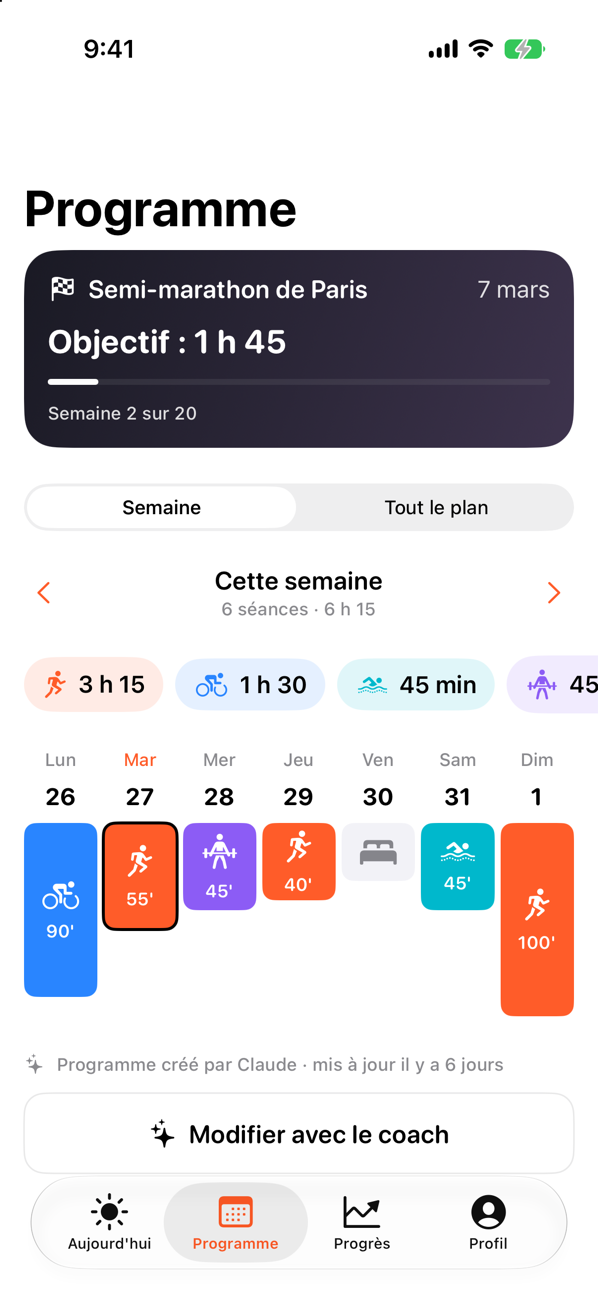
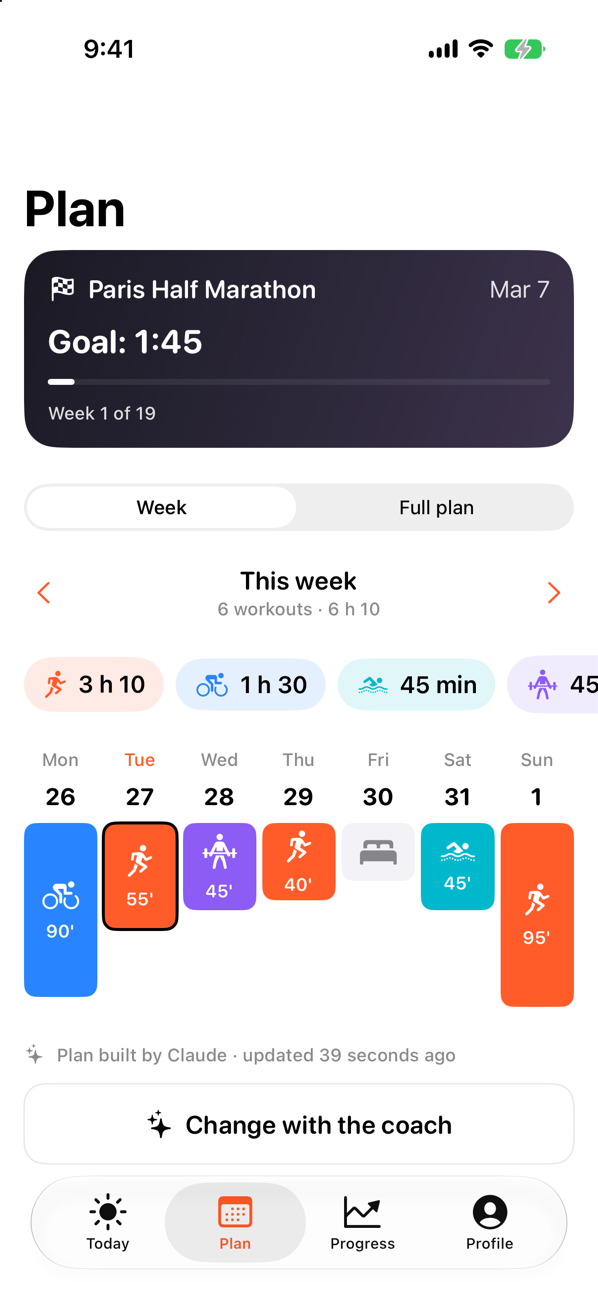
Use English screenshots in the README
Also fix goal times written as h:mm ("1:45" was read as 1 min 45 s) and translate the goal label on the Progress screen.

diff --git a/ios/Coach/Models/Insights.swift b/ios/Coach/Models/Insights.swift
@@ -133,7 +133,7 @@ enum Insights {
         return estimates.min()
     }
 
-    /// "1 h 45" / "1:45:00" / "45:00" → seconds.
+    /// "1 h 45" / "1h45" / "1:45:00" / "1:45" / "45:00" → seconds.
     static func parseTime(_ text: String?) -> TimeInterval? {
         guard let text = text?.lowercased().replacingOccurrences(of: " ", with: "") else { return nil }
         if let m = text.firstMatch(of: #/^(\d+)h(\d{1,2})?$/#) {
@@ -141,7 +141,8 @@ enum Insights {
         }
         let parts = text.split(separator: ":").compactMap { Int($0) }
         if parts.count == 3 { return Double(parts[0] * 3600 + parts[1] * 60 + parts[2]) }
-        if parts.count == 2 { return Double(parts[0] * 60 + parts[1]) }
+        // "1:45" is hours:minutes (a race goal), "45:30" is minutes:seconds.
+        if parts.count == 2 { return parts[0] < 10 ? Double(parts[0] * 3600 + parts[1] * 60) : Double(parts[0] * 60 + parts[1]) }
         return nil
     }
 

diff --git a/ios/Coach/Features/Progress/ProgressScreen.swift b/ios/Coach/Features/Progress/ProgressScreen.swift
@@ -61,7 +61,7 @@ struct ProgressScreen: View {
                 if let projected {
                     HStack(alignment: .firstTextBaseline, spacing: DS.Spacing.xs) {
                         Text(Insights.formatRaceTime(projected)).font(.system(size: 34, weight: .heavy, design: .rounded))
-                        Text("estimé\(goal.targetTime.map { " · objectif \($0)" } ?? "")").font(.dsCallout).foregroundStyle(.dsTextSecondary)
+                        Text(goal.targetTime.map { String(localized: "estimé · objectif \($0)") } ?? String(localized: "estimé")).font(.dsCallout).foregroundStyle(.dsTextSecondary)
                     }
                     if let target {
                         let gap = projected - target
